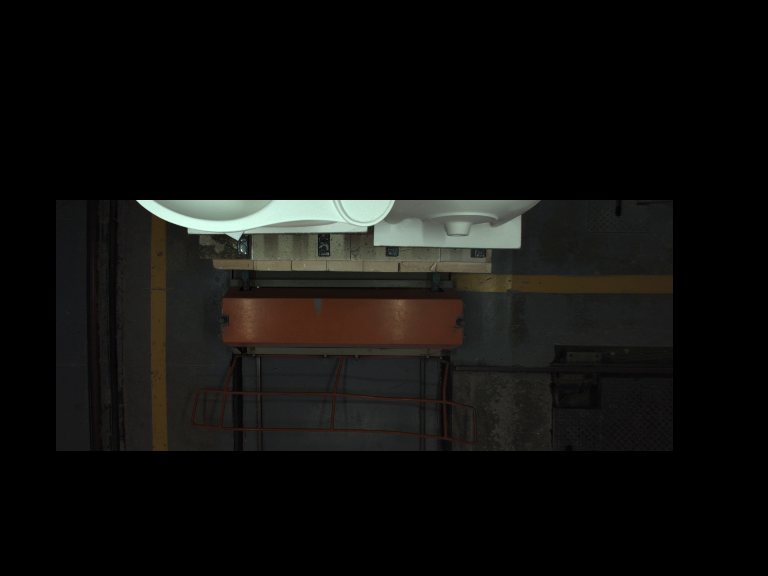
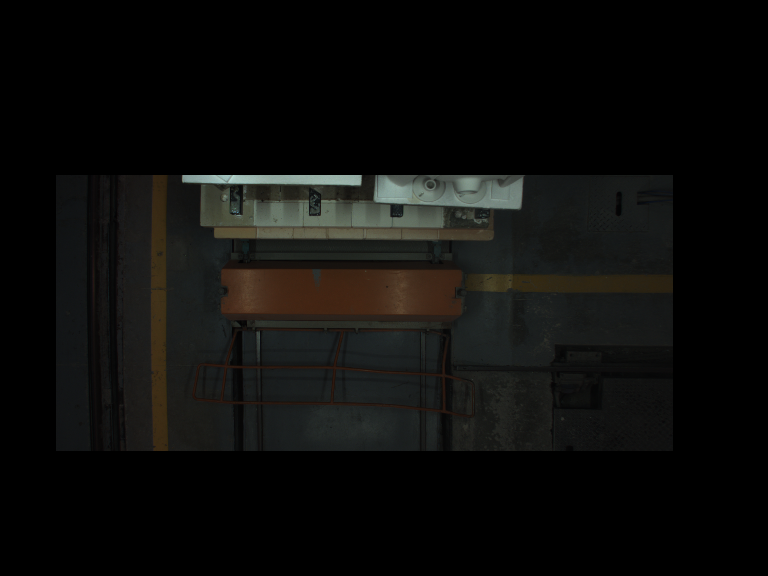
afine x1 malla

Changed region(s): [[0.1562, 0.2812, 0.875, 0.625]]

diff --git a/utils.py b/utils.py
@@ -10,7 +10,7 @@ import os
 
 # Definición de la malla
 malla_izq: int = 106
-malla_der: int = 622
+malla_der: int = 722#622
 count_line: int = 270
 
 # Lista de colores en formato RGB
@@ -27,7 +27,7 @@ password = os.getenv("PASSWORD")
 database = os.getenv("DATABASE")
 tabla = 'entrada_H4_GR'
 # Connecting to the sql database
-connection_str = "DRIVER={ODBC Driver 18 for SQL Server};SERVER=%s;DATABASE=%s;UID=%s;PWD=%s;Encrypt=no" % (server, database, username, password)
+connection_str = "DRIVER={ODBC Driver 17 for SQL Server};SERVER=%s;DATABASE=%s;UID=%s;PWD=%s;Encrypt=no" % (server, database, username, password)
 connection_url = URL.create("mssql+pyodbc", query={"odbc_connect": connection_str})
 
 
@@ -143,7 +143,7 @@ def preparar_img(img):
     '''
     # Convertir la imagen a formato BGR para OpenCV 
     # Solo cuando se trabaja con la camara
-    # img = cv.cvtColor(img, cv.COLOR_BAYER_BG2BGR)
+    img = cv.cvtColor(img, cv.COLOR_BAYER_BG2BGR)
 
     # Corregir distorsion
     # Matriz de cámara (suponiendo que ya la tienes)
